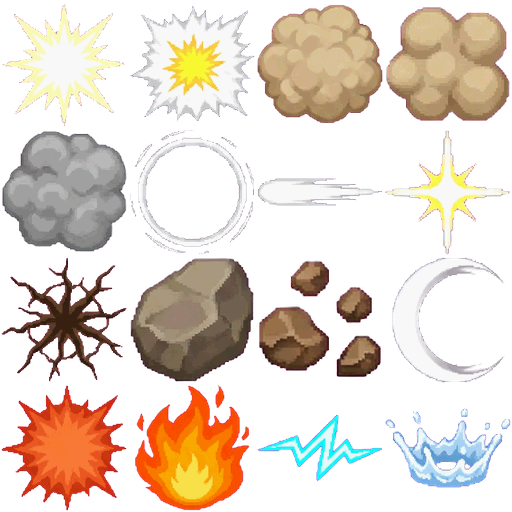
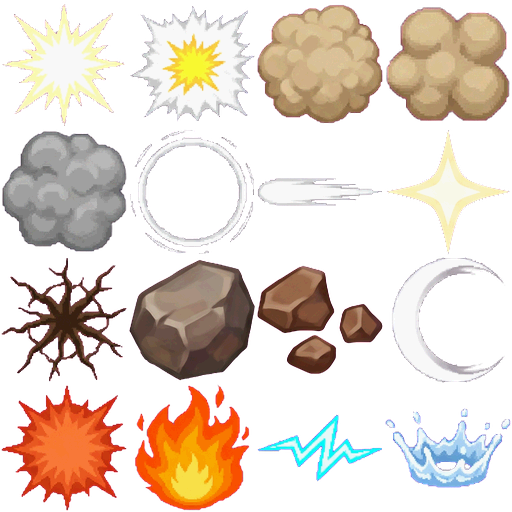
Repainted hero FX: painted quake lava cracks, Herald atlas, misc sprites

Changed region(s): [[0.25, 0.5, 0.75, 0.75], [0.7812, 0.25, 1.0, 0.5]]

diff --git a/src/render/fxParts.ts b/src/render/fxParts.ts
@@ -2,6 +2,7 @@ import * as THREE from "three";
 import type { World } from "../sim/world";
 import type { Particles } from "./particles";
 import stoneUrl from "../../assets/textures/stone.png?url";
+import lavaUrl from "../../assets/fx/lava.png?url";
 import { FxBatch, fxBatch, FxInst } from "./fxInstances";
 import { mergeGeometries } from "three/examples/jsm/utils/BufferGeometryUtils.js";
 
@@ -248,7 +249,11 @@ const FIS_MAT: Record<FissureStyle, THREE.Material> = {
   lava: new THREE.MeshLambertMaterial({ color: 0x24140a, flatShading: true }),
   moss: new THREE.MeshLambertMaterial({ color: 0x1e2a10, flatShading: true }),
 };
-const LAVA_CORE = new THREE.MeshBasicMaterial({ color: 0xff7a1c });
+const lavaTex = new THREE.TextureLoader().load(lavaUrl);
+lavaTex.colorSpace = THREE.SRGBColorSpace;
+const crackPlane = new THREE.PlaneGeometry(1, 1).rotateX(-Math.PI / 2);
+crackPlane.userData.model = true;
+const LAVA_CORE = new THREE.MeshBasicMaterial({ map: lavaTex, alphaTest: 0.4, side: THREE.DoubleSide, polygonOffset: true, polygonOffsetFactor: -2 });
 const LIP_MAT = new THREE.MeshLambertMaterial({ color: 0x6a5238, flatShading: true });
 const MOSS_LIP = new THREE.MeshLambertMaterial({ color: 0x3a5a1c, flatShading: true });
 for (const m of [...Object.values(FIS_MAT), LAVA_CORE, LIP_MAT, MOSS_LIP]) m.userData.keep = true;
@@ -279,15 +284,17 @@ export function buildFissures(gy: (x: number, z: number) => number, r: number, s
       const seg = new THREE.Group();
       seg.position.set(mx, gy(mx, mz), mz);
       seg.rotation.y = yaw;
-      const cut = new THREE.Mesh(boxGeo, FIS_MAT[style]);
-      cut.scale.set(len + w * 0.6, 0.08, w);
-      cut.position.y = 0.01;
-      seg.add(cut);
+      seg.rotation.z = Math.atan2(gy(nx, nz) - gy(px, pz), len);
       if (style === "lava") {
-        const core = new THREE.Mesh(boxGeo, LAVA_CORE);
-        core.scale.set(len + w * 0.4, 0.09, w * 0.45);
-        core.position.y = 0.015;
+        const core = new THREE.Mesh(crackPlane, LAVA_CORE);
+        core.scale.set(len + w * 1.4, 1, w * 2.6 * (rnd() < 0.5 ? -1 : 1));
+        core.position.y = 0.05;
         seg.add(core);
+      } else {
+        const cut = new THREE.Mesh(boxGeo, FIS_MAT[style]);
+        cut.scale.set(len + w * 0.6, 0.08, w);
+        cut.position.y = 0.01;
+        seg.add(cut);
       }
       for (const side of [-1, 1]) {
         if (rnd() < 0.45) continue;
@@ -321,7 +328,7 @@ export function fissures(h: FxHost, x: number, y: number, z: number, r: number, 
       if (!(o instanceof THREE.Mesh)) continue;
       const mat = o.material as THREE.Material;
       const key = FIS_KEYS.get(mat) ?? "fx";
-      const inst = fxBatch(h.root, key, () => new FxBatch(boxGeo, mat.clone())).spawn();
+      const inst = fxBatch(h.root, key, () => new FxBatch(o.geometry, mat.clone())).spawn();
       const sc = new THREE.Vector3();
       o.matrixWorld.decompose(inst.position, inst.quaternion, sc);
       inst.scale.set(0, 0, 0);

diff --git a/src/render/rosterFx.ts b/src/render/rosterFx.ts
@@ -296,7 +296,7 @@ KITS.herald = {
       for (let k = 0; k < 2; k++) h.after(k * 0.18, () => decal(h, HERALD.halo, ev.x, gy + 0.02 * k, ev.z, ev.radius, 0.7, { grow: 0.55, spin: k ? -0.8 : 0.8, additive: true, color: 0xffd870, opacity: 0.75 }));
       for (let i = 0; i < 8; i++) {
         const a = (i / 8) * Math.PI * 2;
-        emit(h, { tex: HERALD.blast, n: 1, x: ev.x, y: gy + 1.6, z: ev.z, size: [1, 1], grow: 2.2, life: [0.5, 0.5], speed: [ev.radius * 0.9, ev.radius * 0.9], dir: { x: Math.cos(a), y: 0, z: Math.sin(a) }, cone: 0.01, additive: true });
+        emit(h, { tex: HERALD.blast, n: 1, x: ev.x, y: gy + 1.6, z: ev.z, size: [1, 1], grow: 2.2, life: [0.5, 0.5], speed: [ev.radius * 0.9, ev.radius * 0.9], dir: { x: Math.cos(a), y: 0, z: Math.sin(a) }, cone: 0.01, additive: true, opacity: 0.55 });
       }
       return true;
     }

diff --git a/src/render/warlordFx.ts b/src/render/warlordFx.ts
@@ -123,7 +123,7 @@ function slamFx(h: FxHost, x: number, z: number, r: number, heavy: boolean): voi
   chunks(h, heavy ? 10 : 5, x, gy + 0.4, z, { size: [0.16, 0.32], speed: [2, 5], up: [5, 9] });
   if (heavy) {
     spikes(h, x, z, r, Math.round(r * 2.2), 1.8);
-    emit(h, { tex: WARLORD.lavaGlow, n: 6, x, y: gy + 0.3, z, size: [0.9, 1.4], grow: 1.5, life: [0.6, 1.1], speed: [0, 0.5], up: [0.2, 0.6], additive: true, jitter: r * 1.2, opacity: 0.8 });
+    emit(h, { tex: WARLORD.splash, n: 5, x, y: gy + 0.3, z, size: [0.7, 1.1], grow: 1.2, life: [0.4, 0.7], speed: [0, 0.4], up: [1.5, 3], gravity: 6, jitter: r * 0.9 });
   } else slabs(h, x, z, r, Math.round(r * 2.4), 0.45, 1.3);
   h.shake = Math.max(h.shake, heavy ? 0.75 : 0.4);
 }

diff --git a/src/render/fxKit.ts b/src/render/fxKit.ts
@@ -101,7 +101,7 @@ export const WARDEN = {
 };
 
 export const WARLORD = {
-  rage: WL[0], slab: WL[1], lavaCrack: WL[2], shout: WL[3], helm: WL[4], dust: WL[5], ember: WL[6], spike: WL[7],
+  rage: WL[0], slab: WL[1], lavaCrack: WL[2], shout: WL[3], helm: WL[4], dust: WL[5], ember: WL[6], splash: WL[7],
   ring: WL[8], swoosh: WL[9], pebbles: WL[10], impact: WL[11], horn: WL[12], lavaGlow: WL[13], crackRing: WL[14], rune: WL[15],
 };
 

diff --git a/tools/fx-prompts/cut.py b/tools/fx-prompts/cut.py
@@ -1,0 +1,73 @@
+import json, sys
+import numpy as np
+from PIL import Image
+
+ROOT = "/home/krruzic/Projects/grudge/"
+CELL = 128
+G = "/tmp/opencode/fxtex/gen/"
+
+
+def keyed(path):
+    a = np.asarray(Image.open(path).convert("RGB")).astype(np.float32)
+    bg = np.array([255.0, 0.0, 255.0])
+    d = np.sqrt(((a - bg) ** 2).sum(-1))
+    alpha = np.clip((d - 60) / 110, 0, 1)
+    spill = np.clip(np.minimum(a[..., 0], a[..., 2]) - a[..., 1], 0, None)
+    a[..., 0] -= spill * 0.9
+    a[..., 2] -= spill * 0.9
+    return a, alpha
+
+
+def fit(a, alpha, rect, w=CELL, h=CELL, square=True, m=3):
+    x0, y0, x1, y1 = rect
+    al = alpha[y0:y1, x0:x1]
+    ys, xs = np.where(al > 0.3)
+    bx0, bx1 = max(0, xs.min() - m), min(x1 - x0, xs.max() + m + 1)
+    by0, by1 = max(0, ys.min() - m), min(y1 - y0, ys.max() + m + 1)
+    if square:
+        side = max(bx1 - bx0, by1 - by0)
+        sq = np.zeros((side, side, 4), np.float32)
+        ox, oy = (side - (bx1 - bx0)) // 2, (side - (by1 - by0)) // 2
+    else:
+        sq = np.zeros((by1 - by0, bx1 - bx0, 4), np.float32)
+        ox = oy = 0
+    sq[oy:oy + by1 - by0, ox:ox + bx1 - bx0, :3] = a[y0 + by0:y0 + by1, x0 + bx0:x0 + bx1]
+    sq[oy:oy + by1 - by0, ox:ox + bx1 - bx0, 3] = al[by0:by1, bx0:bx1] * 255
+    pre = sq.copy()
+    pre[..., :3] *= pre[..., 3:4] / 255
+    small = np.asarray(Image.fromarray(np.clip(pre, 0, 255).astype(np.uint8), "RGBA").resize((w, h), Image.LANCZOS)).astype(np.float32)
+    al2 = small[..., 3:4]
+    small[..., :3] = np.where(al2 > 0, small[..., :3] * 255 / np.maximum(al2, 1), 0)
+    small[..., :3] = np.floor(small[..., :3] / 8) * 8
+    return Image.fromarray(np.clip(small, 0, 255).astype(np.uint8), "RGBA")
+
+
+def put(atlas, idx, img):
+    p = ROOT + f"assets/fx/{atlas}.png"
+    im = Image.open(p).convert("RGBA")
+    x, y = (idx % 4) * CELL, (idx // 4) * CELL
+    im.paste(Image.new("RGBA", (CELL, CELL), (0, 0, 0, 0)), (x, y))
+    im.paste(img, (x, y))
+    im.save(p)
+
+
+S = 2400 / 1100
+a, alpha = keyed(G + "mix_out.png")
+R = lambda x0, y0, x1, y1: tuple(int(v * S) for v in (x0, y0, x1, y1))
+cuts = {
+    ("warlord", 13): R(30, 20, 250, 240),
+    ("warlord", 6): R(355, 80, 465, 190),
+    ("warlord", 4): R(35, 270, 245, 445),
+    ("engineer", 15): R(335, 280, 495, 440),
+    ("duelist", 0): R(585, 250, 805, 470),
+    ("duelist", 4): R(65, 470, 215, 620),
+    ("FX", 7): R(340, 475, 485, 620),
+    ("FX", 9): R(610, 475, 765, 620),
+    ("FX", 10): R(70, 650, 210, 780),
+}
+names = {"FX": "common"}
+for (atlas, idx), rect in cuts.items():
+    put(names.get(atlas, atlas), idx, fit(a, alpha, rect))
+strip = fit(a, alpha, R(548, 40, 1100, 225), 256, 64, square=False, m=0)
+strip.save(ROOT + "assets/fx/lava.png")
+print("ok")

diff --git a/docs/decisions.md b/docs/decisions.md
@@ -832,3 +832,4 @@
 - Measured with `tools/roundrobin.ts`-style runs (6 seeds, 180 games per hero; before → after): Warlord 49 → 56%, Engineer 58 → 52%, Grim 35 → 33%, Remnil 56 → 55%, Francois 47 → 44%, Thorn 52 → 59%. No crashes; two runs of the new code matched exactly.
 - Level-2 add-ons and level-3 tower specs are painted Tripo props (12 meshes, 1-2.4k tris each, 256 px), same named nodes: damage L2 wall banners with shields, firepot coal cauldron (rim ~4.0), volley four tiled corner turrets, ballista turret on a painted turntable; control L2 crystal pylons, frost ice cluster (+4 small), storm brass-and-copper rod (bolts start at its tip, 5.0), well void orb in rune stones (pulse orb raised to 3.15); support L2 gilded bell spire; barracks training dummies + banner, range arrow cart, foundry crane with crucible, outpost lookout tower. Team-coloured where they carry cloth or trim.
 - Wading: characters whose feet are below the drawn water surface (waterLevel + tide rise) are lowered visually (sim unchanged) until submerged by a fixed depth (heroes/ogre 0.6, heavy 0.42, other units 0.34), easing in near banks and skipped while airborne; the water mesh then covers their lower legs. One instanced foam ring at the waterline per wading character, instanced ripple rings while moving (heroes every 0.2 s, units 0.45 s, slow when idle, none while stealthed), splashes instead of footstep dust; silhouettes skip fragments below the water surface; player rings drawn at the surface after the water. +≤2 draw calls per viewport.
+- Hero FX repaint (2 Nano Banana sheets): Warlord's quake fissures are flat painted lava cracks with jagged tapering edges lying on the ground (`assets/fx/lava.png`, replaces the flat orange boxes; firepot lava zones use the same builder); the quake throws painted magma splashes instead of glow blobs; `lavaGlow` is a cluster of small painted flames; embers and helmet repainted without halos. Herald's whole atlas repainted in the painted style (was pixel-art with thick outlines; horn-blast ring opacity 0.55); Stig's heal sprite is a rounded green plus with a brass rim; Francois's glint/sparkle and the shared twinkle/rock/pebbles repainted. Prompts and the cutter for these sheets are in `tools/fx-prompts/` (tools/gen-fx-sheets.mjs still has the old prompts; don't rerun it for herald/warlord).
